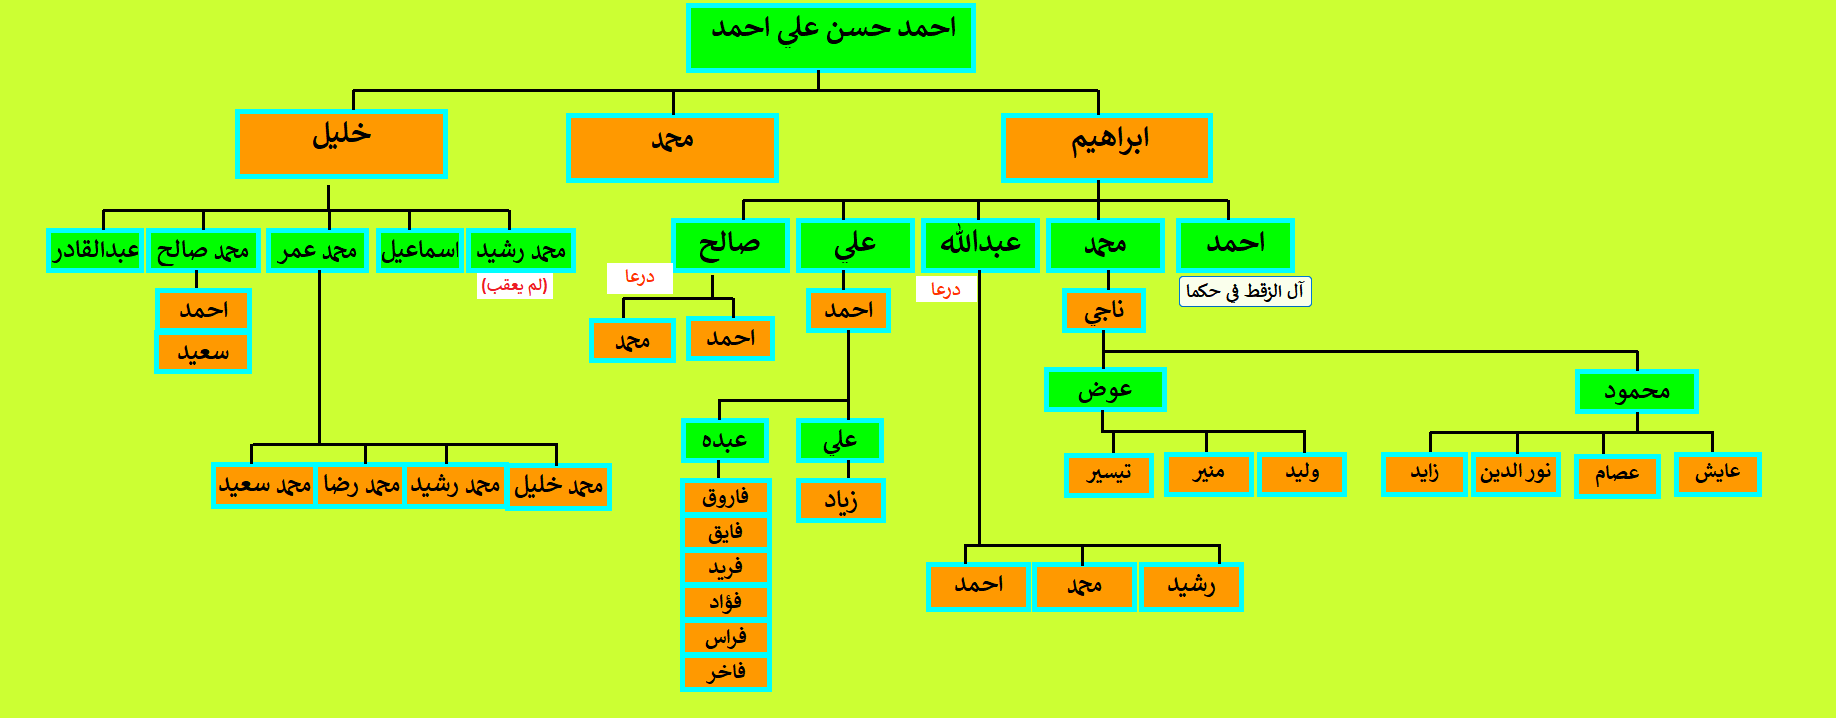
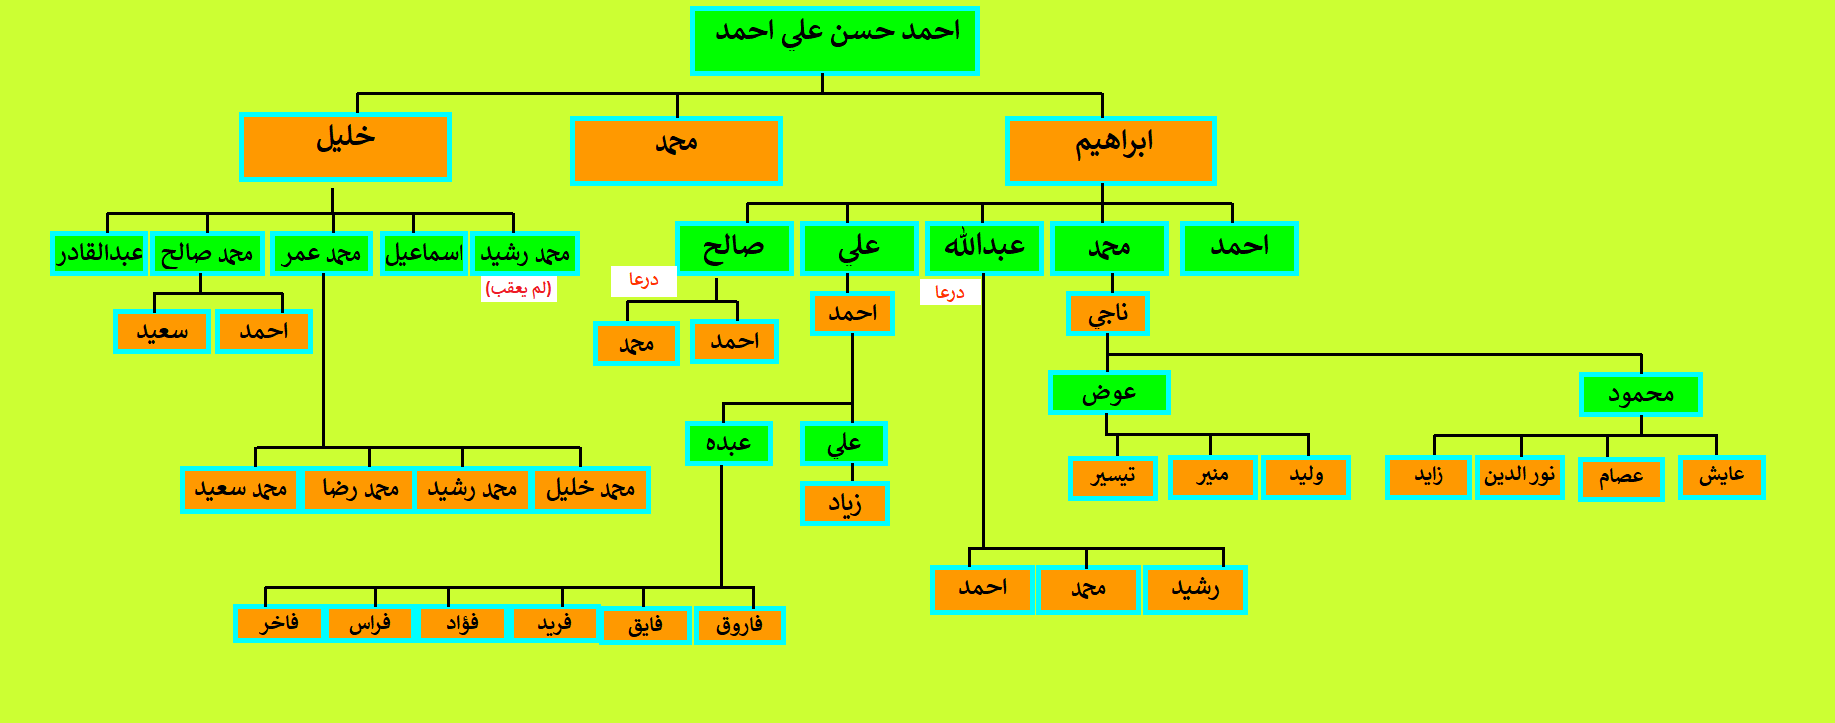
update

Changed region(s): [[0.0, 0.0, 0.9629, 0.9805]]

diff --git a/ahmad-ben-hassan-ali.html b/ahmad-ben-hassan-ali.html
@@ -30,9 +30,9 @@ function FP_getObjectByID(id,o) {//v1.0
 </script>
 </head>
 
-<body style="background-color: #DEFF2F" onload="FP_preloadImgs(/*url*/'button2086.gif',/*url*/'button2087.gif',/*url*/'button2095.gif',/*url*/'button2096.gif')">
+<body style="background-color: #CCFF33" onload="FP_preloadImgs(/*url*/'button2086.gif',/*url*/'button2087.gif',/*url*/'button2095.gif',/*url*/'button2096.gif')">
 
-<div id="layer1" style="position: absolute; width: 134px; height: 45px; z-index: 1; left: 942px; top: 233px">
+<div id="layer1" style="position: absolute; width: 134px; height: 30px; z-index: 1; left: 865px; top: 235px">
 	<a href="zugut-hakama.html">
 	<img id="img1" alt="آل الزقط في حكما" height="26" onmousedown="FP_swapImg(1,0,/*id*/'img1',/*url*/'button2087.gif')" onmouseout="FP_swapImg(0,0,/*id*/'img1',/*url*/'button2088.gif')" onmouseover="FP_swapImg(1,0,/*id*/'img1',/*url*/'button2086.gif')" onmouseup="FP_swapImg(0,0,/*id*/'img1',/*url*/'button2086.gif')" src="button2088.gif" style="border: 0" width="132" /><!-- MSComment="ibutton" fp-style="fp-btn: Metal Capsule 6; fp-font-style: Bold; fp-transparent: 1" fp-title="آل الزقط في حكما" --></a></div>
 <div id="layer2" style="position: absolute; width: 115px; height: 45px; z-index: 2; left: 10px; top: 15px">

diff --git a/Mohammed Hassan Ali.html b/Mohammed Hassan Ali.html
@@ -30,7 +30,7 @@ function FP_getObjectByID(id,o) {//v1.0
 </script>
 </head>
 
-<body onload="FP_preloadImgs(/*url*/'button1804.gif',/*url*/'button1805.gif')" style="background-color: #DEFF2F">
+<body onload="FP_preloadImgs(/*url*/'button1804.gif',/*url*/'button1805.gif')" style="background-color: #CCFF33">
 
 <div id="layer1" style="position: absolute; width: 112px; height: 37px; z-index: 1; left: 10px; top: 15px">
 	<a href="index.html">
